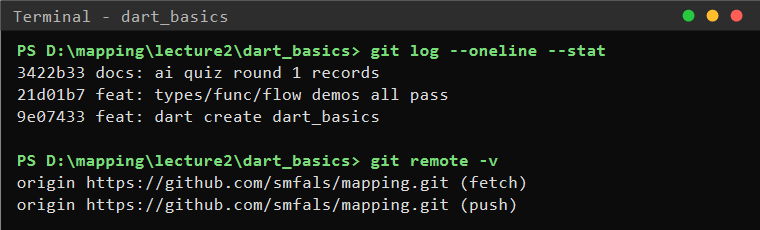
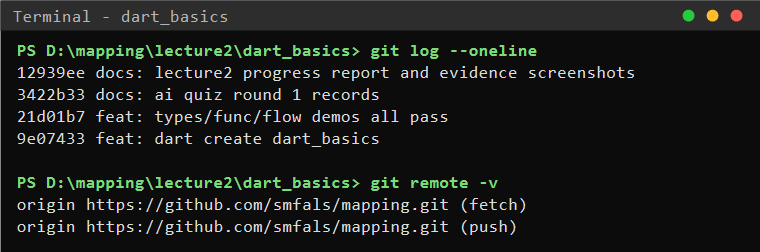
fix: update git log screenshot to include 5 commits

diff --git a/lecture2/progress.md b/lecture2/progress.md
@@ -90,7 +90,7 @@ String gradeOf(int score) {
 - `dart analyze`：**No issues found!**（截图 01 上半部）
 - `dart run`：三组示例输出全部正确（截图 01 下半部）
 - 空安全改写练习：`!` 用在 null 上会抛错（对拍第 2 题实测）；`??` 与 `!` 区别可口头解释（见第一节验收标准第 4 条）
-- Git 提交：4 次规范提交（截图 02）
+- Git 提交：≥3 次规范提交（截图 02）
 
 ## 六、问题与调试
 
@@ -122,7 +122,7 @@ String gradeOf(int score) {
 |---|---|
 | dart_basics 完整复现（15） | ✔ 三组示例 + main 统一调用，输出正确 |
 | 检查点：无告警/输出正确/能解释 ??与!（5） | ✔ 全部满足 |
-| Git 规范：≥3 次规范提交（5） | ✔ 4 次，feat/docs 前缀 |
+| Git 规范：≥3 次规范提交（5） | ✔ 实际 5 次，feat/docs 前缀 |
 | 报告记录完整（5） | ✔ 十节齐全，对拍分歧已记录 |
 
 ## 十、一句话收获与下一步计划
